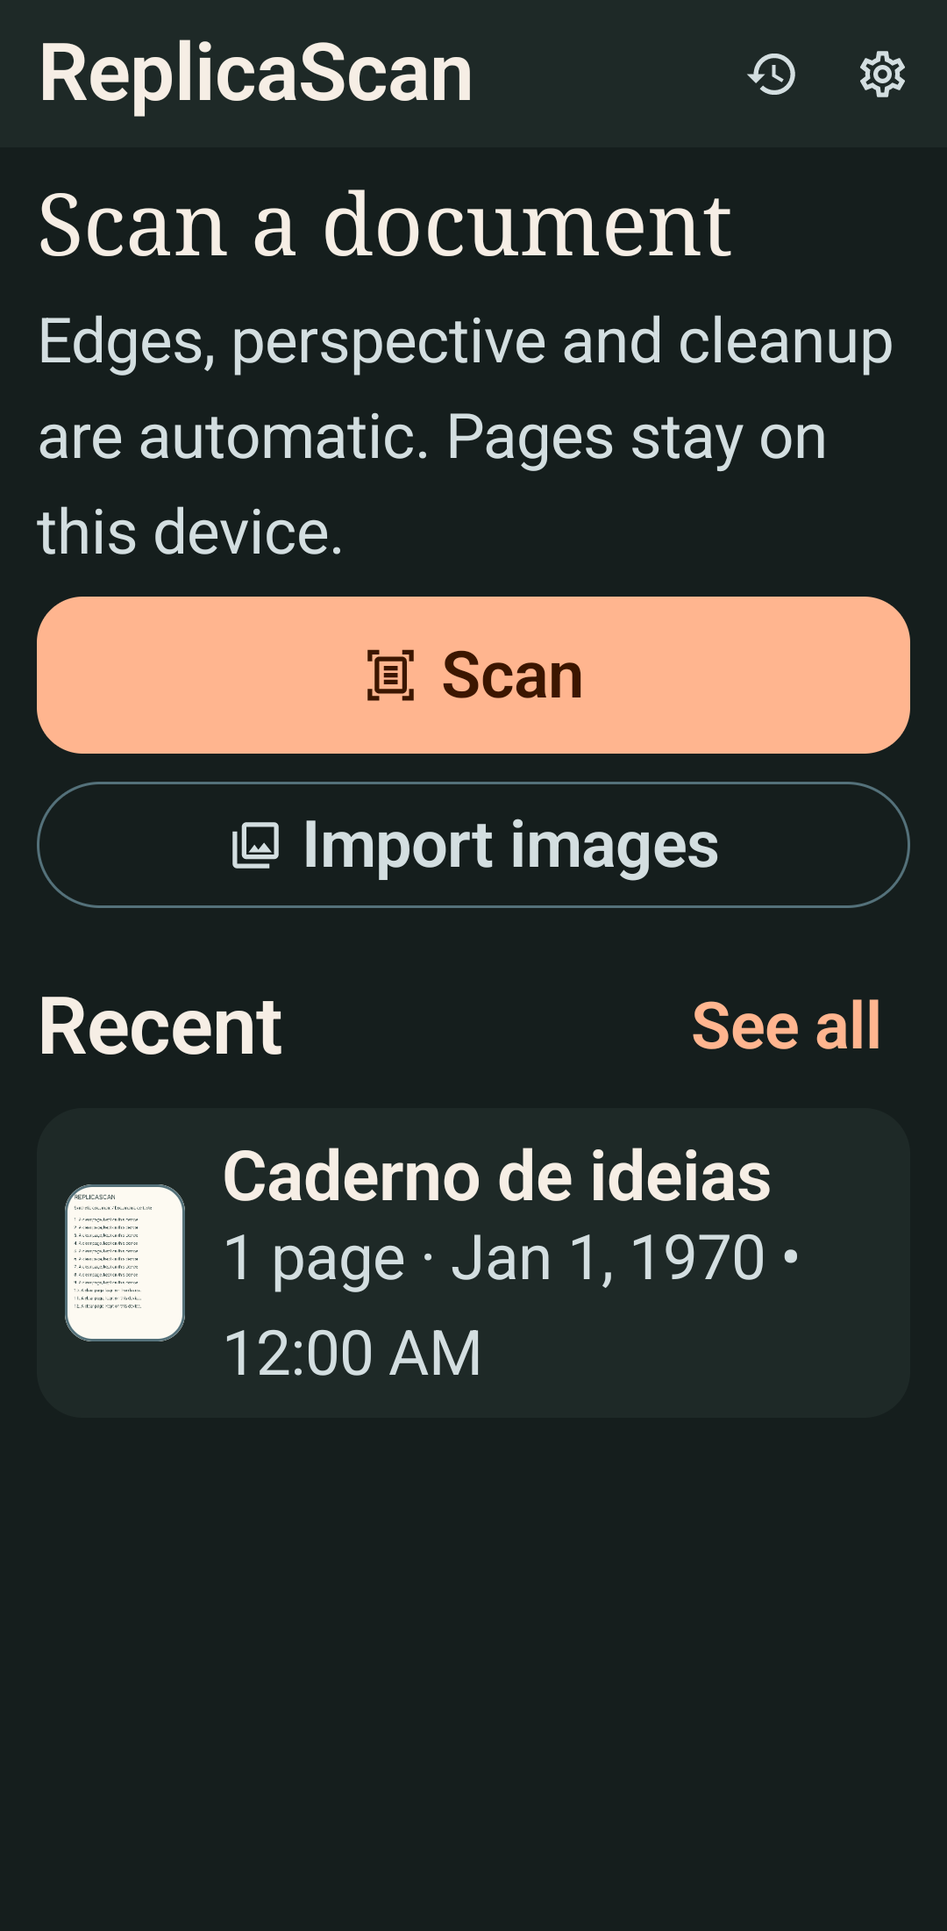
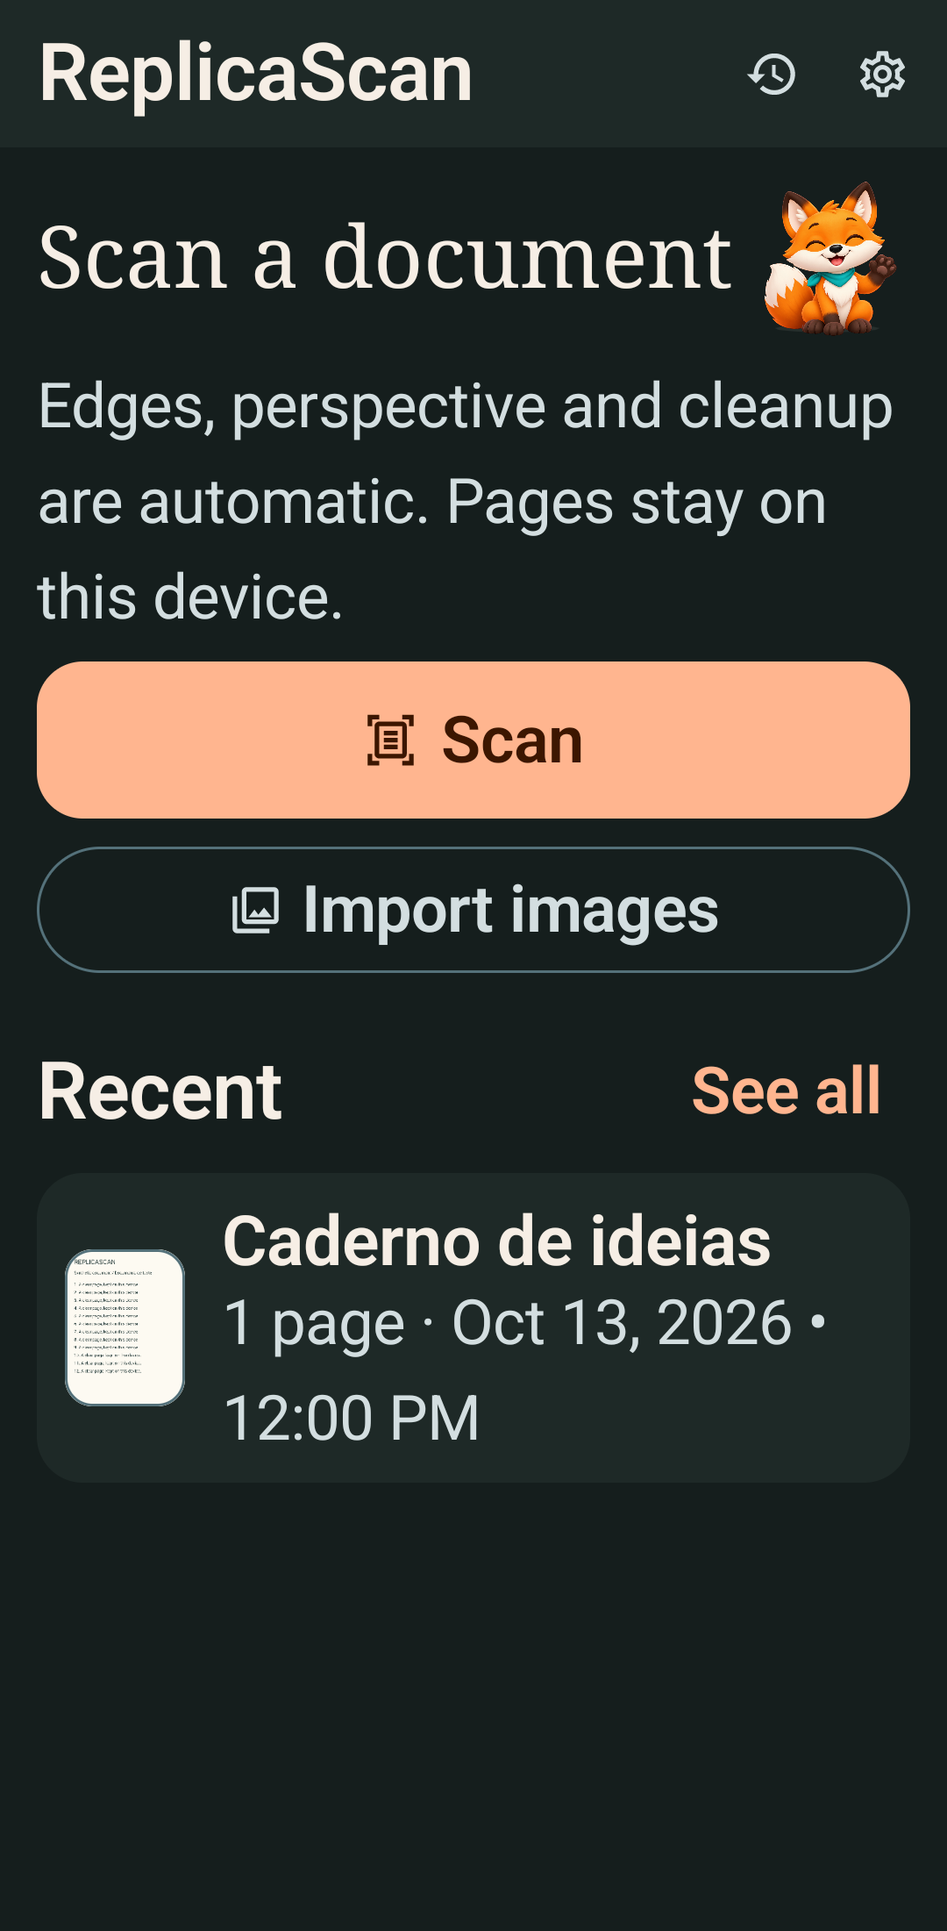
feat(home): retain mascot at large type and show loading

Changed region(s): [[0.0306, 0.0927, 0.9778, 0.7724]]

diff --git a/app/src/androidTest/java/com/soturine/replicascan/RebrandVisualTest.kt b/app/src/androidTest/java/com/soturine/replicascan/RebrandVisualTest.kt
@@ -33,6 +33,7 @@ import org.junit.Assert.*
 import org.junit.Rule
 import org.junit.Test
 import java.io.File
+import java.time.Instant
 
 /** Real Compose rendering with synthetic documents/injected screen states, not an end-to-end OCR claim. */
 class RebrandVisualTest {
@@ -67,6 +68,8 @@ class RebrandVisualTest {
 
     @Test fun renderScreenMatrix() {
         val scan = fixture()
+        val homeScan = scan.copy(createdAt = Instant.parse("2026-10-13T12:00:00Z").toEpochMilli(),
+            updatedAt = Instant.parse("2026-10-13T12:00:00Z").toEpochMilli())
         var screen by mutableStateOf("onboarding")
         var dark by mutableStateOf(false)
         var large by mutableStateOf(false)
@@ -81,7 +84,14 @@ class RebrandVisualTest {
                     key(screen) {
                         when (screen) {
                             "onboarding" -> OnboardingScreen({})
-                            "home-empty", "home-recent" -> HomeScreen(HomeUiState(false, if (screen == "home-recent") listOf(scan) else emptyList()),
+                            "home-empty", "home-recent", "home-many", "home-loading" -> HomeScreen(HomeUiState(
+                                isLoading = screen == "home-loading",
+                                recentScans = when (screen) {
+                                    "home-recent" -> listOf(homeScan)
+                                    "home-many" -> (1..6).map { index -> homeScan.copy(id = "visual-$index", title = "Caderno $index") }
+                                    else -> emptyList()
+                                },
+                            ),
                                 false, {}, {}, {}, {}, { null }, {}, {}, {})
                             "review" -> ReviewScreen(editor, {}, {}, { _, _ -> }, {}, { true }, {}, {}, {}, {}, {}, {}, {}, {})
                             "crop" -> CropScreen(editor, {}, {}, {})
@@ -101,7 +111,7 @@ class RebrandVisualTest {
                 }
             }
         }
-        val screens = listOf("onboarding", "home-empty", "home-recent", "review", "crop", "filters", "ocr-loading", "ocr-ready", "ocr-empty",
+        val screens = listOf("onboarding", "home-empty", "home-recent", "home-many", "home-loading", "review", "crop", "filters", "ocr-loading", "ocr-ready", "ocr-empty",
             "export", "export-jpg", "export-png", "export-progress", "export-error", "export-success", "export-library-warning", "history", "history-empty", "search-empty", "detail", "settings", "about")
         for (name in screens) {
             rule.runOnIdle { screen = name }
@@ -132,14 +142,37 @@ class RebrandVisualTest {
         rule.onNodeWithText(context.getString(android.R.string.cancel)).performClick()
         rule.runOnIdle { screen = "onboarding"; large = true }
         capture("onboarding-200")
-        rule.runOnIdle { screen = "home-recent"; dark = true }
+        rule.runOnIdle { screen = "home-recent" }
+        capture("home-light-200")
+        rule.runOnIdle { dark = true; large = false }
         capture("home-dark")
         rule.runOnIdle { large = true }
         capture("home-dark-200")
+        rule.runOnIdle { rtl = true }
+        capture("home-dark-200-rtl")
+        rule.runOnIdle { rtl = false }
         rule.runOnIdle { screen = "export"; large = true }
         capture("export-dark-200")
         rule.runOnIdle { screen = "review"; rtl = true }
         capture("review-dark-200-rtl")
+    }
+
+    @Test fun homeLargeFontKeepsBothActionsAtNarrowWidths() {
+        val date = Instant.parse("2026-10-13T12:00:00Z").toEpochMilli()
+        val scan = fixture().copy(createdAt = date, updatedAt = date)
+        rule.mainClock.autoAdvance = false
+        rule.setContent {
+            val density = LocalDensity.current.density
+            CompositionLocalProvider(LocalDensity provides Density(density, 2f)) {
+                ReplicaScanTheme {
+                    HomeScreen(HomeUiState(false, listOf(scan)), false,
+                        {}, {}, {}, {}, { null }, {}, {}, {})
+                }
+            }
+        }
+        rule.onNodeWithText(context.getString(com.soturine.replicascan.feature.home.R.string.home_scan_action)).assertIsDisplayed()
+        rule.onNodeWithText(context.getString(com.soturine.replicascan.feature.home.R.string.home_import_action)).assertIsDisplayed()
+        capture("home-responsive-200")
     }
 
     @Test fun sequentialCornerDragsPreserveTheOtherCorners() {

diff --git a/docs/design/visual-recovery/evidence/review.html b/docs/design/visual-recovery/evidence/review.html
@@ -23,13 +23,14 @@
   <h1>Comparação visual Android</h1>
   <p>À esquerda, a captura rejeitada do ciclo anterior. À direita, o estado atual renderizado pelo Compose no emulador Android 14 / API 34, com documento sintético e estados injetados. A prévia de exportação em andamento foi recapturada após a mudança funcional. Esta prancha é evidência para revisão, não aceite estético nem prova de câmera, OCR ou exportação reais.</p>
   <nav aria-label="Ir para tela">
-    <a href="#home">Home</a><a href="#large-type">Fonte 200%</a><a href="#review">Revisão</a><a href="#crop">Recorte</a>
+    <a href="#home">Home</a><a href="#home-states">Estados da Home</a><a href="#large-type">Fonte 200%</a><a href="#review">Revisão</a><a href="#crop">Recorte</a>
     <a href="#export">Exportação</a><a href="#export-setup">Preparo refinado</a><a href="#export-eyes">Olhos da raposa</a><a href="#progress">Progresso</a><a href="#success">Sucesso</a>
     <a href="#onboarding">Introdução</a><a href="#ocr">OCR</a><a href="#history">Histórico</a><a href="#search-empty">Busca vazia</a>
     <a href="#settings">Configurações</a><a href="#launcher">Ícone</a>
   </nav>
   <section id="home"><h2>Home com documento</h2><div class="pair"><figure><figcaption>Anterior</figcaption><img src="../../evidence/home-recent.png" alt="Home anterior"></figure><figure><figcaption>Atual</figcaption><img src="home-recent.png" alt="Home atual com raposa aprovada"></figure></div></section>
-  <section id="large-type"><h2>Home com fonte 200% e tema escuro</h2><p>Nesta configuração, a ilustração cede espaço ao título e às ações. O conteúdo continua rolável para documentos adicionais.</p><figure><img src="home-dark-200.png" alt="Home atual em tema escuro e fonte ampliada a 200%"></figure></section>
+  <section id="home-states"><h2>Home com vários documentos e carregamento</h2><p>O documento da captura é sintético; o estado de carregamento é injetado. O indicador de Recentes agora informa a espera sem bloquear Escanear.</p><div class="pair"><figure><figcaption>Seis documentos</figcaption><img src="home-many.png" alt="Home com lista de seis documentos sintéticos"></figure><figure><figcaption>Recentes carregando</figcaption><img src="home-loading.png" alt="Home com indicador de carregamento dos documentos recentes"></figure></div></section>
+  <section id="large-type"><h2>Home com fonte 200%</h2><p>A cena grande vira uma raposa compacta junto ao título. Escanear e Importar seguem visíveis nas larguras 360 e 390 dp; as capturas escura e RTL mostram a mesma composição.</p><div class="pair"><figure><figcaption>Claro · 360 dp</figcaption><img src="home-360-200.png" alt="Home em 360 dp e fonte 200%"></figure><figure><figcaption>Claro · 390 dp</figcaption><img src="home-390-200.png" alt="Home em 390 dp e fonte 200%"></figure><figure><figcaption>Escuro · 200%</figcaption><img src="home-dark-200.png" alt="Home em tema escuro e fonte 200%"></figure><figure><figcaption>Escuro · RTL · 200%</figcaption><img src="home-dark-200-rtl.png" alt="Home em tema escuro, RTL e fonte 200%"></figure></div></section>
   <section id="review"><h2>Revisão</h2><div class="pair"><figure><figcaption>Anterior</figcaption><img src="../../evidence/review.png" alt="Revisão anterior"></figure><figure><figcaption>Atual</figcaption><img src="review.png" alt="Revisão atual"></figure></div></section>
   <section id="crop"><h2>Recorte</h2><div class="pair"><figure><figcaption>Anterior</figcaption><img src="../../evidence/crop.png" alt="Recorte anterior"></figure><figure><figcaption>Atual</figcaption><img src="crop.png" alt="Recorte atual"></figure></div></section>
   <section id="export"><h2>Opções de exportação</h2><div class="pair"><figure><figcaption>Anterior</figcaption><img src="../../evidence/export.png" alt="Opções anteriores"></figure><figure><figcaption>Atual</figcaption><img src="export.png" alt="Opções atuais"></figure></div></section>

diff --git a/feature-home/src/main/java/com/soturine/replicascan/feature/home/HomeScreen.kt b/feature-home/src/main/java/com/soturine/replicascan/feature/home/HomeScreen.kt
@@ -201,6 +201,11 @@ fun HomeScreen(
                     }
                 }
             }
+            if (state.isLoading) {
+                item(key = "recent-loading") {
+                    LinearProgressIndicator(modifier = Modifier.fillMaxWidth().padding(vertical = ReplicaScanSpacing.md))
+                }
+            }
             if (!state.isLoading && state.recentScans.isEmpty()) {
                 item(key = "empty") {
                     ReplicaScanContent {
@@ -237,16 +242,26 @@ private fun ScanHero(
     onScan: () -> Unit,
     onImport: () -> Unit,
 ) {
+    val largeText = LocalDensity.current.fontScale >= 1.5f
     Column(
         modifier = Modifier.fillMaxWidth(),
         verticalArrangement = Arrangement.spacedBy(ReplicaScanSpacing.md),
     ) {
-        Text(
-            text = stringResource(R.string.home_hero_title),
-            style = MaterialTheme.typography.headlineMedium,
-            modifier = Modifier.fillMaxWidth().semantics { heading() },
-        )
-        if (LocalDensity.current.fontScale < 1.5f) {
+        if (largeText) {
+            Row(verticalAlignment = Alignment.CenterVertically) {
+                Text(
+                    text = stringResource(R.string.home_hero_title),
+                    style = MaterialTheme.typography.headlineMedium,
+                    modifier = Modifier.weight(1f).semantics { heading() },
+                )
+                ReplicaScanMascot(ReplicaScanMascotState.Welcome, size = 72.dp)
+            }
+        } else {
+            Text(
+                text = stringResource(R.string.home_hero_title),
+                style = MaterialTheme.typography.headlineMedium,
+                modifier = Modifier.fillMaxWidth().semantics { heading() },
+            )
             HomePaperScene()
         }
         Text(

diff --git a/README.md b/README.md
@@ -27,7 +27,7 @@ Não há conta, backend, sincronização ou upload obrigatório de documentos. C
 
 ## Redesign e evidência
 
-A base da v0.4.1 traz papel marfim, tinta petróleo e terracota, revisão de telas, crop com cantos independentes e exportação com nome de arquivo, progresso e recuperação persistente. O visual do ciclo anterior foi rejeitado pelo proprietário. Um novo master e sete poses baseados na raposa da v0.4.0 receberam aceite como arte estática. A pose de atenção teve patas extras corrigidas e um rig candidato com camadas independentes foi capturado no Android. A Home integra a raposa à cena de papel e prioriza Escanear inclusive com fonte 200%; a introdução apresenta três cenas abertas de folha e raposa. A exportação conecta prévia real e raposa em preparo, progresso, sucesso e erro; o preparo agora integra nome e formatos com qualidade progressiva, e a piscada da pose de leitura foi corrigida. Revisão, recorte e filtros compartilham a luz e a profundidade do papel sem mudar os controles de edição; OCR reúne o texto selecionável em uma folha. Histórico vazio e busca sem resultados mostram a raposa sem cartão pesado. Detalhe prioriza a página única e configurações usam grupos leves. A opção 4 foi escolhida como candidata final do ícone; animação e conjunto das telas continuam sem aceite final.
+A base da v0.4.1 traz papel marfim, tinta petróleo e terracota, revisão de telas, crop com cantos independentes e exportação com nome de arquivo, progresso e recuperação persistente. O visual do ciclo anterior foi rejeitado pelo proprietário. Um novo master e sete poses baseados na raposa da v0.4.0 receberam aceite como arte estática. A pose de atenção teve patas extras corrigidas e um rig candidato com camadas independentes foi capturado no Android. A Home integra a raposa à cena de papel e prioriza Escanear; em fonte 200% mantém a personagem em tamanho compacto, com Escanear e Importar visíveis em 360/390 dp. Recentes mostra carregamento e uma lista de vários itens. A introdução apresenta três cenas abertas de folha e raposa. A exportação conecta prévia real e raposa em preparo, progresso, sucesso e erro; o preparo agora integra nome e formatos com qualidade progressiva, e a piscada da pose de leitura foi corrigida. Revisão, recorte e filtros compartilham a luz e a profundidade do papel sem mudar os controles de edição; OCR reúne o texto selecionável em uma folha. Histórico vazio e busca sem resultados mostram a raposa sem cartão pesado. Detalhe prioriza a página única e configurações usam grupos leves. A opção 4 foi escolhida como candidata final do ícone; animação e conjunto das telas continuam sem aceite final.
 
 Veja a [auditoria de recuperação visual](docs/design/visual-recovery/AUDIT.md), a [prancha das poses](docs/design/visual-recovery/candidates/review.html), o [clipe e as capturas Android atuais](docs/design/visual-recovery/evidence/README.md), os [novos ícones candidatos](docs/design/visual-recovery/icon-candidates/index.html), a [revisão por tela](docs/design/visual-recovery/SCREEN_REVIEW.md) e a [matriz de validação](docs/design/visual-recovery/VALIDATION_MATRIX.md). O material novo usa estados injetados e documento sintético; não substitui QA físico, TalkBack humano, revisão linguística nativa ou aceite final.
 

diff --git a/docs/design/visual-recovery/VALIDATION_MATRIX.md b/docs/design/visual-recovery/VALIDATION_MATRIX.md
@@ -4,7 +4,7 @@
 |---|---|---|---|---|---|
 | Direção e master da raposa | original v0.4.0 e master editado, com seis poses derivadas | personagem consistente na prancha; master e poses aprovados em mensagens explícitas | `candidates/review.png` | proprietário | ARTE ESTÁTICA APROVADA |
 | Movimento sem pops/cortes | `FoxRig` articula cabeça, cauda, patas, olhos e papel por máscaras; PNGs de poses completas são decodificados a 627 px na exibição | testes Android verificam movimento, redução explícita e Animator scale 0; `MascotJourneyCaptureTest` passou; arte separada por membros e QA físico pendentes | `evidence/mascot-motion-live-android.mp4` (adb, 25,72 s/255 quadros, estados sintéticos, média 9,86 fps) e frames do teste | proprietário | PARCIAL; FLUIDEZ E ACEITE PENDENTES |
-| Home/Onboarding/Export e demais telas | Home amplia a mascote e libera largura para texto; introdução integra três poses à folha e compacta a cena em fonte 200%; opções de exportação reúnem prévia/páginas/formato; progresso inclui página real | `MainActivityTest` (4 testes) e `renderScreenMatrix` passaram no emulador API 34 com fixture sintética; splash corrigida após o primeiro teste revelar falha de recurso | `evidence/review.html` compara capturas atuais e baseline; fluxo físico não foi exercitado | proprietário | PARCIAL, ACEITE PENDENTE |
+| Home/Onboarding/Export e demais telas | Home apresenta cena de papel e raposa, indicador de carregamento e raposa compacta em 200%; introdução integra três poses à folha; exportação une documento, opções e estados | `MainActivityTest` (4 testes), `renderScreenMatrix` e Home 200% em 360/390 dp passaram no emulador API 34 com fixture sintética | `evidence/review.html` compara capturas atuais e baseline; fluxo físico não foi exercitado | proprietário | PARCIAL, ACEITE PENDENTE |
 | Ícone adaptativo opção 4 | Arte com duas patas, folha intermediária e cantos/linha de escaneamento; foreground adaptativo e vetor temático no APK debug | `IconCandidateTest` e `launcherMasksAndSizes` passaram no emulador API 34; recurso real conferido em 24–108 dp | `icon-candidates/candidate-4-android.png`, `launcher-installed.png` e `launcher-masks.png` | proprietário | CANDIDATO FINAL ESCOLHIDO, TESTE FÍSICO PENDENTE |
 | Ícones alternativos 6/7 | Folha à esquerda ou folha lateral; PNG transparente sem camadas editáveis/monochrome instalados | `IconCandidateTest` passou no emulador API 34 em 24/36/48/72/108 dp e quatro máscaras; ambos perdem clareza de scanner em 24 dp | `icon-candidates/candidate-6-android.png` e `candidate-7-android.png` | proprietário | EXPERIMENTO; 4 PERMANECE INSTALADA |
 | Histórico vazio e busca sem resultado | Pose vazia e mensagens no fundo, sem cartão; busca/lista/callbacks mantidos | `:feature-history:testDebugUnitTest`, lint e `renderScreenMatrix` passaram; consulta real não exercitada | `evidence/history-empty.png` e `search-empty.png` | proprietário | CAPTURADO, INTERAÇÃO PENDENTE |

diff --git a/docs/design/visual-recovery/SCREEN_REVIEW.md b/docs/design/visual-recovery/SCREEN_REVIEW.md
@@ -9,7 +9,7 @@ automaticamente todas as telas, o movimento ou a release.
 
 | Destino/estado | Observação e decisão | Estado |
 |---|---|---|
-| Home com recentes e vazia | Cena nativa de papel e raposa e CTA Escanear de 68 dp. Em fonte 200%, a cena sai para preservar conteúdo e ações. Espaço inferior com poucos itens continua natural ao conteúdo. | Implementado; capturas API 34 claras, escuras e 200%; aceite pendente |
+| Home vazia, recentes, muitos itens e carregando | Cena nativa de papel e raposa, CTA Escanear de 68 dp e indicador em Recentes enquanto carrega. Em fonte 200%, a cena grande cede lugar à raposa compacta junto ao título. Seis itens demonstram a lista rolável; espaço inferior com poucos itens acompanha o conteúdo. | REFINED; capturas API 34 em claro, escuro, RTL e 360/390 dp com fonte 200%; aceite pendente |
 | Onboarding (3 páginas) | Saudação, leitura e sucesso acompanham escanear, revisar e guardar em uma cena de folha e raposa sem cartão isolado; a composição compacta preserva título, corpo e botão com fonte 200%. A sequência ainda precisa de inspeção física de swipe/RTL. | Capturas Android das três páginas e 200%; aceite pendente |
 | Revisão, crop e filtros | Review/Crop/filtros dão luz e profundidade à mesma página nativa. O recorte mantém quatro cantos e página inteira por padrão; controles, gesto e geometria não foram movidos. | Capturados em claro; Review também em escuro/RTL/fonte 200%; QA físico pendente |
 | OCR carregando, pronto e vazio | Parágrafos ficam em uma folha selecionável, com cópia e idioma preservados. Carregamento e vazio mantêm a raposa; estados de modelo e seleção precisam inspeção com OCR real e TalkBack. | Capturado com estado injetado; fluxo real pendente |

diff --git a/docs/design/visual-recovery/evidence/README.md b/docs/design/visual-recovery/evidence/README.md
@@ -28,8 +28,14 @@ uma cena aberta nas três páginas, sem cartão de fundo; `onboarding-200.png`
 mostra a versão compacta em fonte 200%. A Home foi recapturada em
 2026-10-13 com cena de papel e raposa, botão principal ampliado, estado vazio
 sem cartão e folha iluminada no tema escuro; `home-dark-200.png` documenta a
-composição sem ilustração em fonte 200%. As demais capturas vêm da
-fatia anterior do mesmo runtime com as poses aprovadas.
+composição sem ilustração em fonte 200%. A rodada seguinte substituiu essa
+omissão total por uma raposa compacta ao lado do título. As capturas
+`home-360-200.png` e `home-390-200.png` mostram Escanear e Importar visíveis
+em larguras estreitas; `home-light-200.png`, `home-dark-200.png` e
+`home-dark-200-rtl.png` cobrem temas e direção. `home-many.png` traz seis
+documentos sintéticos e `home-loading.png` mostra o indicador de Recentes.
+As fixtures novas da Home usam 2026-10-13, evitando a data 1970 do teste.
+As demais capturas vêm da fatia anterior do mesmo runtime com as poses aprovadas.
 
 `review.png`, `crop.png` e `review-dark-200-rtl.png` foram recapturados em
 2026-10-13 após a iluminação e a profundidade da página. O teste confirma

diff --git a/CHANGELOG.md b/CHANGELOG.md
@@ -4,6 +4,7 @@ Este projeto segue Semantic Versioning e recomenda Conventional Commits no fluxo
 
 ## [Unreleased]
 
+- Home preserva uma raposa compacta com fonte 200% e indica o carregamento de Recentes; capturas Android cobrem seis documentos, 360/390 dp, temas e RTL.
 - Poses da raposa decodificadas a meia resolução durante a exibição, preservando os PNGs-fonte e as articulações. Vídeo contínuo via `adb screenrecord` documenta Home e estados de exportação no emulador; a fluidez e os fluxos reais ainda aguardam validação.
 - Duas composições alternativas do ícone foram comparadas no Android em 24–108 dp e máscaras. A opção 4 continua instalada: nas novas propostas, o sinal de escaneamento enfraquece no menor tamanho; aceitação final e arte temática das alternativas permanecem abertas.
 - Preparo da exportação refinado no Android: nome de arquivo integrado à composição, três formatos em escolhas legíveis, qualidade e tamanho de página revelados sob demanda; estados e callbacks de gravação preservados. Capturas antes/depois e variante escura com fonte 200% foram atualizadas.

diff --git a/docs/design/visual-recovery/ART_DIRECTION.md b/docs/design/visual-recovery/ART_DIRECTION.md
@@ -1,6 +1,14 @@
 # Direção proposta — ateliê de documentos
 
-`STATUS: PROPOSTA, NÃO APROVADA`.
+`STATUS: DIREÇÃO A APROVADA; LAYOUTS, ÍCONE, MOVIMENTO E RELEASE PENDENTES`.
+
+O proprietário escolheu Mesa Editorial como direção e pediu incorporar da
+proposta B a luz e a profundidade do documento. Isso aprova princípios, não
+os layouts finais. No Android, a Home mantém Escanear antes dos documentos;
+com fonte 200% a cena vira uma raposa pequena ao lado do título. A exportação
+usa a mesma folha do preparo até o resultado, com formato e qualidade sob
+divulgação progressiva. Review/Crop iluminam a página sem tomar espaço dos
+controles. O tema escuro muda a luz ambiente, não o modelo de interação.
 
 O app deve parecer uma bancada de trabalho calma: documento como peça central,
 ferramentas precisas, luz quente e uma raposa que orienta sem infantilizar. Uma
